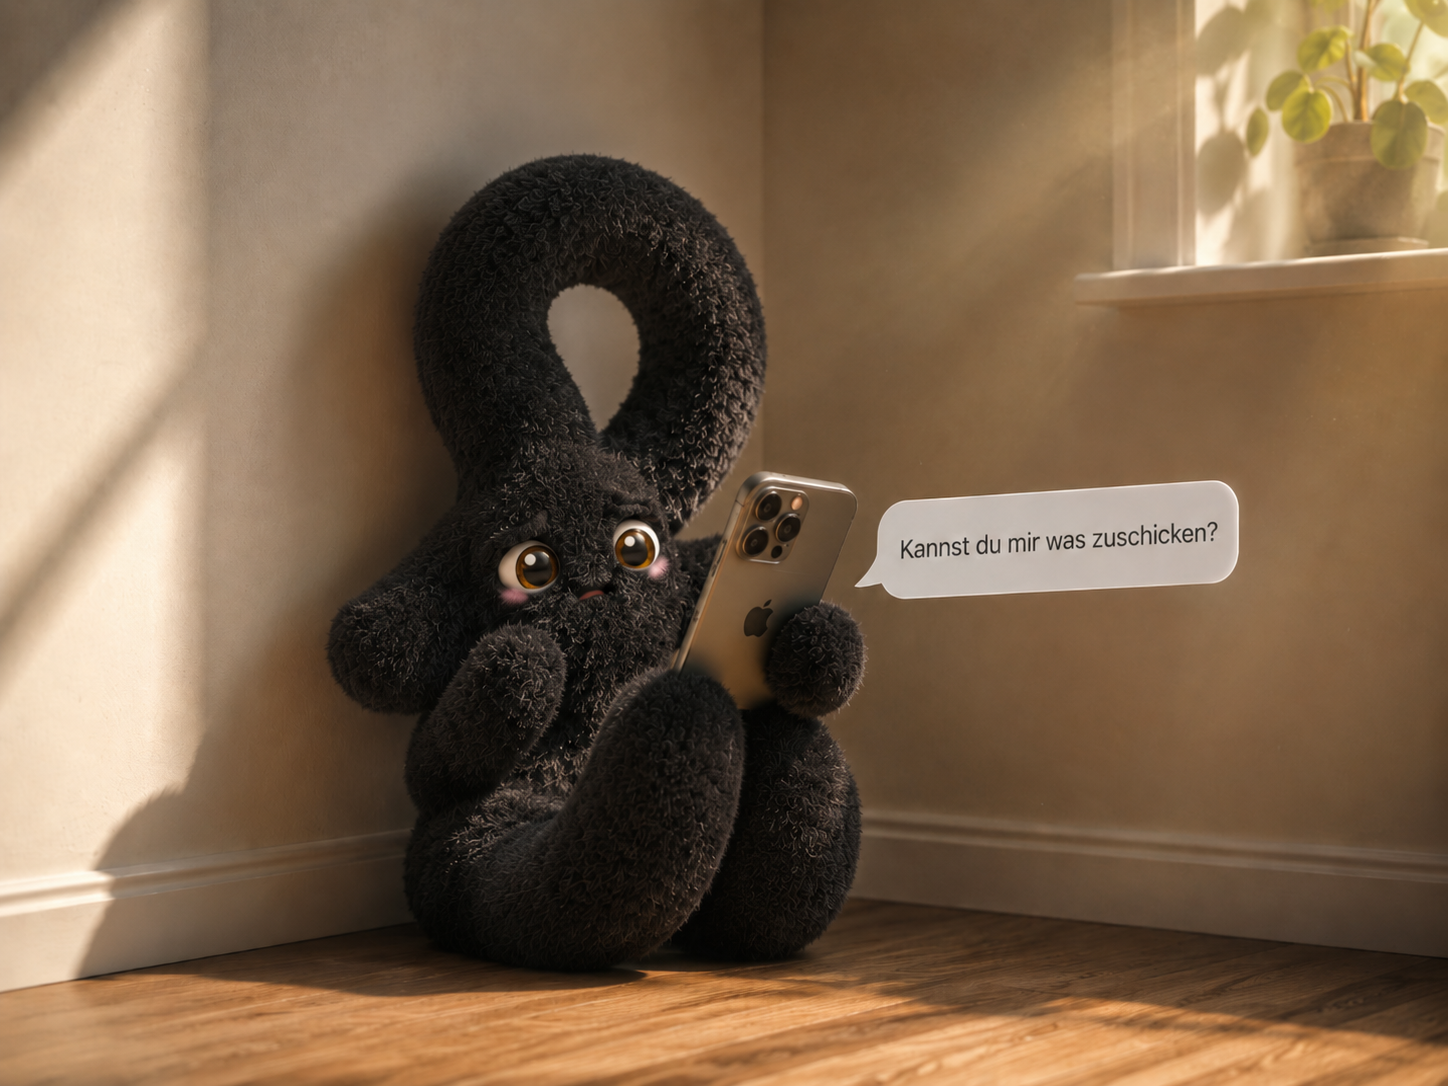
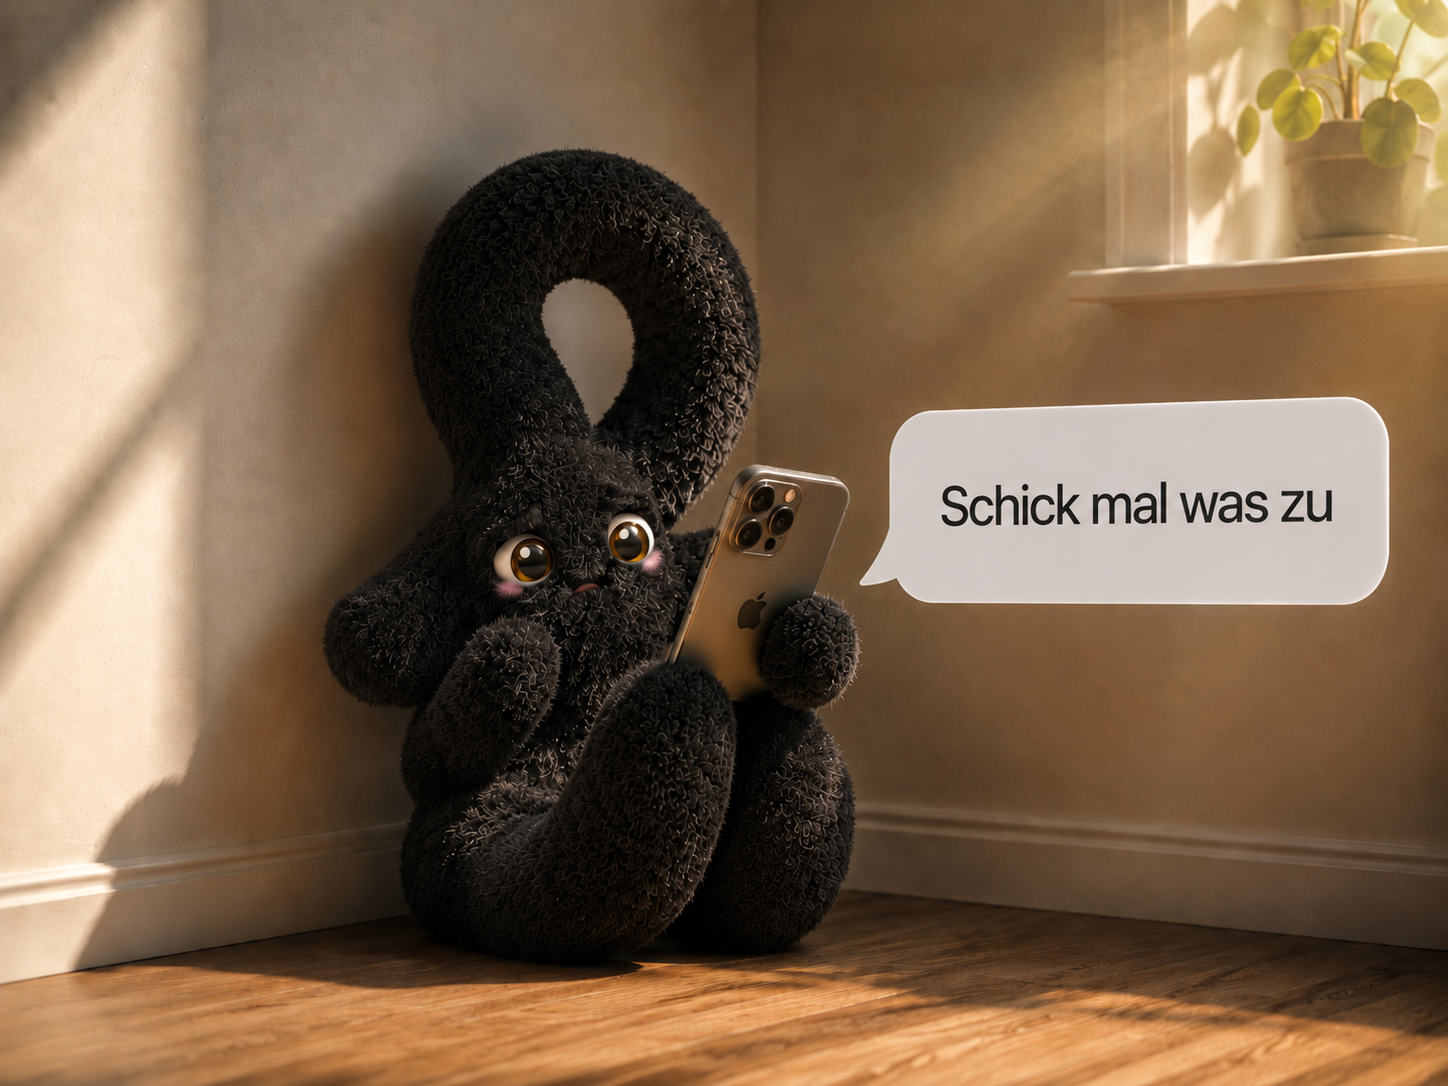
feat: restyle problem + solution sections
- Problem: new image for card 2, split headlines with red highlight, no em-dashes
- Solution: horizontal feature cards with colored icon badges + CTA button

diff --git a/src/app/_components/ProblemSection.tsx b/src/app/_components/ProblemSection.tsx
@@ -15,17 +15,20 @@ function loadScript(src: string): Promise<void> {
 const PROBLEMS = [
   {
     img: '/problem-reichweite.png',
-    title: 'Du postest, alle schauen zu. Aber niemand meldet sich.',
-    text: 'Reichweite allein bringt keine Kunden. Deine Webseite gibt Interessenten einen Grund, sich zu melden.',
+    highlight: 'Du postest.',
+    rest: 'Keiner schreibt zurück.',
+    text: 'Reichweite allein bringt keine Kunden. Deine Webseite gibt Interessenten den letzten Anstoß, sich zu melden.',
   },
   {
     img: '/problem-schick.png',
-    title: '"Schick mir mal was zu" \u2014 kein Problem.',
-    text: 'Du schickst einfach den Link. Die Seite erklärt alles, du musst gar nichts mehr erklären.',
+    highlight: '"Schick mir mal was zu."',
+    rest: 'Kein Problem.',
+    text: 'Schick einfach den Link. Die Webseite erklärt alles. Du musst gar nichts mehr erklären.',
   },
   {
     img: '/problem-target.png',
-    title: 'Mit einer Botschaft für alle erreichst du niemanden richtig.',
+    highlight: 'Für alle gleich.',
+    rest: 'Für niemanden wirklich.',
     text: 'Mütter, Sportler, Berufstätige. Jede Gruppe braucht ihre eigene Ansprache. Du hast für jede Zielgruppe eine eigene Seite.',
   },
 ]
@@ -73,32 +76,21 @@ export default function ProblemSection() {
     }}>
       <div style={{ maxWidth: 960, margin: '0 auto' }}>
 
-        {/* Header */}
         <div style={{ textAlign: 'center', marginBottom: 52 }}>
-          <p style={{
-            fontSize: 11, fontWeight: 700,
-            color: '#aaa',
-            letterSpacing: '0.14em', textTransform: 'uppercase', marginBottom: 18,
-          }}>Das Problem</p>
+          <p style={{ fontSize: 11, fontWeight: 700, color: '#aaa', letterSpacing: '0.14em', textTransform: 'uppercase', marginBottom: 18 }}>Das Problem</p>
           <h2 style={{
             fontFamily: '"Plein", sans-serif',
             fontSize: 'clamp(28px, 4vw, 46px)',
             fontWeight: 400, color: '#111',
-            letterSpacing: '-0.025em', lineHeight: 1.15,
-            margin: 0,
+            letterSpacing: '-0.025em', lineHeight: 1.15, margin: 0,
           }}>
             Kommt dir das bekannt vor?
           </h2>
         </div>
 
-        {/* Problem cards */}
         <div
           ref={containerRef}
-          style={{
-            display: 'grid',
-            gridTemplateColumns: 'repeat(auto-fit, minmax(260px, 1fr))',
-            gap: 16,
-          }}
+          style={{ display: 'grid', gridTemplateColumns: 'repeat(auto-fit, minmax(260px, 1fr))', gap: 16 }}
         >
           {PROBLEMS.map((p, i) => (
             <div
@@ -114,37 +106,22 @@ export default function ProblemSection() {
                 boxShadow: '0 2px 16px rgba(0,0,0,0.05)',
               }}
             >
-              {/* Image */}
               <div style={{ height: 220, overflow: 'hidden' }}>
                 {/* eslint-disable-next-line @next/next/no-img-element */}
-                <img
-                  src={p.img}
-                  alt=""
-                  style={{ width: '100%', height: '100%', objectFit: 'cover', objectPosition: 'center top', display: 'block' }}
-                />
+                <img src={p.img} alt="" style={{ width: '100%', height: '100%', objectFit: 'cover', objectPosition: 'center top', display: 'block' }} />
               </div>
-
-              {/* Text */}
               <div style={{ padding: '20px 22px 26px' }}>
-                <h3 style={{
-                  fontSize: 16, fontWeight: 700, color: '#111',
-                  marginBottom: 8, letterSpacing: '-0.01em', lineHeight: 1.35,
-                }}>{p.title}</h3>
-                <p style={{
-                  fontSize: 14, color: '#777',
-                  lineHeight: 1.65, margin: 0,
-                }}>{p.text}</p>
+                <h3 style={{ fontSize: 16, fontWeight: 700, color: '#111', marginBottom: 8, letterSpacing: '-0.01em', lineHeight: 1.35 }}>
+                  <span style={{ color: '#C0392B' }}>{p.highlight}</span>{' '}
+                  <span style={{ color: '#555', fontWeight: 500 }}>{p.rest}</span>
+                </h3>
+                <p style={{ fontSize: 14, color: '#777', lineHeight: 1.65, margin: 0 }}>{p.text}</p>
               </div>
             </div>
           ))}
         </div>
 
-        {/* Bridge to solution */}
-        <p style={{
-          textAlign: 'center', fontSize: 15,
-          color: '#bbb',
-          marginTop: 48, fontWeight: 500, letterSpacing: '-0.01em',
-        }}>
+        <p style={{ textAlign: 'center', fontSize: 15, color: '#bbb', marginTop: 48, fontWeight: 500, letterSpacing: '-0.01em' }}>
           FinestSites löst genau das.
         </p>
       </div>

diff --git a/src/app/page.tsx b/src/app/page.tsx
@@ -273,12 +273,52 @@ export default async function HomePage({
 
       {/* ══ WAS FINESTSITES BIETET ═══════════════════════════════════════ */}
       <section id="was-ist" style={{ background: '#fff' }} className="fs-section-pad">
-        <div style={{ maxWidth: 960, margin: '0 auto', textAlign: 'center' }}>
-          <p style={{ fontSize: 11, fontWeight: 600, color: '#aaa', letterSpacing: '0.1em', textTransform: 'uppercase', marginBottom: 16 }}>Die Lösung</p>
-          <h2 style={{ fontFamily: '"Plein", sans-serif', fontSize: 'clamp(26px, 3.5vw, 42px)', fontWeight: 400, letterSpacing: '-0.02em', lineHeight: 1.15, marginBottom: 48, color: '#111' }}>
-            Deine Webseite arbeitet, während du schläfst.
-          </h2>
-          <FeatureCardsAnimated />
+        <div style={{ maxWidth: 960, margin: '0 auto' }}>
+          <div style={{ textAlign: 'center', marginBottom: 52 }}>
+            <p style={{ fontSize: 11, fontWeight: 700, color: '#aaa', letterSpacing: '0.14em', textTransform: 'uppercase', marginBottom: 18 }}>Die Lösung</p>
+            <h2 style={{ fontFamily: '"Plein", sans-serif', fontSize: 'clamp(28px, 4vw, 46px)', fontWeight: 400, letterSpacing: '-0.025em', lineHeight: 1.15, color: '#111', margin: '0 auto', maxWidth: 600 }}>
+              Deine Webseite arbeitet, während du schläfst.
+            </h2>
+            <p style={{ fontSize: 16, color: '#888', maxWidth: 480, margin: '16px auto 0' }}>
+              Du kümmerst dich ums Netzwerk. Den Rest übernehmen wir.
+            </p>
+          </div>
+
+          <div style={{ display: 'grid', gridTemplateColumns: 'repeat(auto-fit, minmax(420px, 1fr))', gap: 14 }}>
+            {([
+              { emoji: '⚡', bg: '#FFFBEB', border: '#FDE68A', iconBg: '#D97706', title: 'In unter 5 Minuten live', desc: 'Template wählen, Inhalte eintragen, fertig. Kein Designer, kein Technik-Stress.' },
+              { emoji: '✏️', bg: '#FAF5FF', border: '#E9D5FF', iconBg: '#7C3AED', title: 'Kein Texten, kein Designen', desc: 'Jede Vorlage ist professionell getextet, gestaltet und rechtlich geprüft.' },
+              { emoji: '🔄', bg: '#F0FDF4', border: '#BBF7D0', iconBg: '#16A34A', title: 'Laufend verbessert', desc: 'Neue Funktionen, bessere Conversion, aktuelles Design. Automatisch und ohne dein Zutun.' },
+              { emoji: '🔒', bg: '#EFF6FF', border: '#BFDBFE', iconBg: '#2563EB', title: 'Kein Hosting, kein DSGVO-Stress', desc: 'Hosting, Sicherheit, Datenschutz, Impressum. Alles inklusive.' },
+            ] as { emoji: string; bg: string; border: string; iconBg: string; title: string; desc: string }[]).map((f, i) => (
+              <div key={i} style={{
+                display: 'flex', alignItems: 'flex-start', gap: 16,
+                background: f.bg, border: `1px solid ${f.border}`,
+                borderRadius: 20, padding: '22px 24px',
+              }}>
+                <div style={{
+                  width: 48, height: 48, borderRadius: 14, background: f.iconBg,
+                  display: 'flex', alignItems: 'center', justifyContent: 'center',
+                  flexShrink: 0, fontSize: 22,
+                }}>
+                  {f.emoji}
+                </div>
+                <div>
+                  <h3 style={{ fontSize: 15, fontWeight: 700, color: '#111', marginBottom: 6, lineHeight: 1.3 }}>{f.title}</h3>
+                  <p style={{ fontSize: 13.5, color: '#555', lineHeight: 1.65, margin: 0 }}>{f.desc}</p>
+                </div>
+              </div>
+            ))}
+          </div>
+
+          <div style={{ textAlign: 'center', marginTop: 48 }}>
+            <a
+              href="https://app.finestsites.io/register"
+              style={{ display: 'inline-block', background: '#111', color: '#fff', padding: '14px 32px', borderRadius: 100, fontSize: 15, fontWeight: 600, textDecoration: 'none' }}
+            >
+              Jetzt kostenlos starten
+            </a>
+          </div>
         </div>
       </section>
 